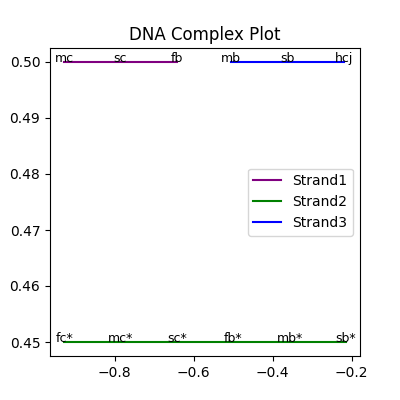
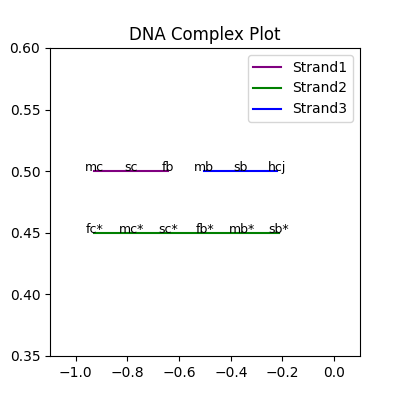
Add major changes to design and graphics

diff --git a/project/templates/index.html b/project/templates/index.html
@@ -13,46 +13,57 @@
 <body>
   
     <div class="navbar">
-        <a href="/" class="logo mb-4"> <span style="color: #00a2ed"> P-</span>Sequin</a>
+        <a href="/" class="logo mb-4"> <span style="color: #6700dd;"> P-</span>Sequin</a>
         <a href="#settings" class="runtime-settings">Runtime Settings</a>
     </div>
 
 
     <div class="container mt-5">
         {% if not domain_sequences and not strand_sequences %}
-        <div class="card" id="inputForm">
+        <div id="inputForm">
+            
             <div class="card-body">
                 <form action="/generate" method="post">
-                    <h5 class="mb-3">Domain Details:</h5>
-                    <div class="form-group">
-                        <label>Number of Domains:</label>
-                        <input type="number" name="domains_num" class="form-control" required>
-                    </div>
-                    <div class="form-group">
-                        <label>Enter Domain Names (comma-separated):</label>
-                        <input type="text" name="domain_names" class="form-control" required>
-                    </div>
-                    <div class="form-group">
-                        <label>Enter Domain Lengths (comma-separated):</label>
-                        <input type="text" name="domain_lengths" class="form-control" required>
-                    </div>
-
-                    <!-- DNA Strands Section -->
-                    <div class="strand-section mt-4">
-                        <h5>Enter DNA Strands:</h5>
-                        <div class="strand-inputs">
-                            <!-- Dynamic strand inputs will be appended here -->
+                    <h5 class="mb-3 section-title">Domain Details</h5>
+                    <div class="card">
+                        <div class="form-group">
+                            <label>Number of Domains:</label>
+                            <input type="number" name="domains_num" class="form-control" required>
                         </div>
-                        <button type="button" class="btn btn-secondary mt-2" id="addStrand">Add Strand</button>
-                    </div>
-
-                    <!-- Complex Details Section -->
-                    <div class="complex-section mt-4">
-                        <h5>Enter Target Complexes:</h5>
-                        <div class="complex-inputs">
-                            <!-- Dynamic complex inputs will be appended here -->
+                        <div class="form-group">
+                            <label>Enter Domain Names (comma-separated):</label>
+                            <input type="text" name="domain_names" class="form-control" required>
                         </div>
-                        <button type="button" class="btn btn-secondary mt-2" id="addComplex">Add Complex</button>
+                        <div class="form-group">
+                            <label>Enter Domain Lengths (comma-separated):</label>
+                            <input type="text" name="domain_lengths" class="form-control" required>
+                        </div>
+                    </div>
+                    <br>
+                    <br>
+                    <h5 class="mb-3 section-title">Strand Details</h5>
+                    <div class="card">
+                        <!-- DNA Strands Section -->
+                        <div class="strand-section mt-4">
+                            <h5>Enter DNA Strands:</h5>
+                            <div class="strand-inputs">
+                                <!-- Dynamic strand inputs will be appended here -->
+                            </div>
+                            <button type="button" class="btn btn-secondary mt-2" id="addStrand">Add Strand</button>
+                        </div>
+                    </div>
+                    <br>
+                    <br>
+                    <h5 class="mb-3 section-title">Complex Details</h5>
+                    <div class="card">
+                        <!-- Complex Details Section -->
+                        <div class="complex-section mt-4">
+                            <h5>Enter Target Complexes:</h5>
+                            <div class="complex-inputs">
+                                <!-- Dynamic complex inputs will be appended here -->
+                            </div>
+                            <button type="button" class="btn btn-secondary mt-2" id="addComplex">Add Complex</button>
+                        </div>
                     </div>
 
                     <div class="form-check mt-4 mb-3">
@@ -60,7 +71,7 @@
                         <label class="form-check-label">Include 3' Poly-T Overhang</label>
                     </div>
 
-                    <input type="submit" value="Generate" class="btn btn-primary">
+                    <input type="submit" value="Generate" class="btn btn-primary" style="background-color:black !important;">
                 </form>
             </div>
         </div>

diff --git a/project/static/styles.css b/project/static/styles.css
@@ -1,11 +1,15 @@
+@import url('https://fonts.googleapis.com/css2?family=IBM+Plex+Sans&family=Playfair+Display&family=Playfair+Display+SC:wght@400;700&family=Roboto+Mono:wght@500&display=swap');
+html{
+    background-color: rgb(245, 245, 248) !important;
+}
 body {
-    font-family:system-ui, -apple-system, BlinkMacSystemFont, 'Segoe UI', Roboto, Oxygen, Ubuntu, Cantarell, 'Open Sans', 'Helvetica Neue', sans-serif;
+    font-family: 'Playfair Display SC', 'sans';
 
     align-items: center;
     justify-content: center;
     height: 100vh;
     margin: 0;
-    background-color: #ffffff;
+
     color: black;
 
 }
@@ -38,30 +42,28 @@ label, input {
 
 /* Dark Mode Styles for the Card */
 .card {
-    background-image: linear-gradient(to right, rgb(58, 6, 65) , rgb(0, 0, 0));
+    background-image: linear-gradient(to right, rgb(255, 255, 255) , rgb(255, 255, 255));
     border: 1px solid #444;     /* Darker border for the card */
     border-radius: 25px; 
+    color: black !important;
+    padding: 30px;
+    margin-top: 20px;
 }
 
-.card-body {
-    color: #e0e0e0;             /* Light grey text color for card content */
-}
 
 /* Dark Mode Styles for Form */
 form {
 
-    border: none !important;               /* Remove border as the card already has one */
-    color: #e0e0e0 !important;             /* Light grey text color */
-    background-image: linear-gradient(to right, rgb(58, 6, 65) , rgb(0, 0, 0));
+    border: none !important;
 
 
 }
 
 /* Styles for input fields, textareas, and select boxes in dark mode */
 form input, form textarea, form select {
-    background-color: #3a3a3a !important;  /* Slightly lighter grey for input fields */
+    background-color: #cccccc !important;
     border: 1px solid #555 !important;     /* Darker border for input fields */
-    color: #e0e0e0 !important;             /* Light grey text color for input text */
+
 }
 
 /* Placeholder color for input fields in dark mode */
@@ -71,12 +73,12 @@ form input::placeholder, form textarea::placeholder {
 
 /* Dark mode styles for labels */
 form label {
-    color: #ddd !important;                /* Light grey text color for labels */
+    color: #000000 !important;                /* Light grey text color for labels */
 }
 
 /* Dark mode hover effect for input fields */
 form input:hover, form textarea:hover, form select:hover {
-    background-color: #4a4a4a !important;  /* Even lighter grey for hover effect */
+    background-color: #e6e6e6 !important;  /* Even lighter grey for hover effect */
     border: 1px solid #666 !important;     /* Slightly darker border for hover effect */
 }
 
@@ -128,7 +130,7 @@ form input:focus, form textarea:focus, form select:focus {
 
 .runtime-settings {
     color: #ffffff;
-    background-color: #555;
+    background-color: #000000;
     padding: 8px 16px;
     border: none;
     border-radius: 5px;
@@ -148,3 +150,11 @@ form input:focus, form textarea:focus, form select:focus {
 .domain {
     font-size: 12px;
   }
+
+.section-title{
+    text-align: center;
+    color: #0e440d;
+    font-weight: 600;
+    font-size: 24px;
+
+}

diff --git a/project/graphics.py b/project/graphics.py
@@ -3,7 +3,6 @@ matplotlib.use('Agg')
 import matplotlib.pyplot as plt
 import os
 
-import mpld3
 
 class DNAComplexPlotter:
     def __init__(self, complex_structure, strands_data):
@@ -98,6 +97,8 @@ class DNAComplexPlotter:
                 all_domain_coordinates.extend(self.calculate_aligned_domain_coordinates(strand, index, quadrant_middle_coordinates[index], left_bound=left_bound_strand2, right_bound=right_bound_strand2))
 
         fig, ax = plt.subplots(figsize=(4, 4))
+        ax.set_ylim(0.35, 0.6)
+        ax.set_xlim(-1.1, 0.1)
         strand_colors = ['red', 'green', 'blue']
         for index, strand in enumerate(self.matched_strands):
             if strand.get('contains_polymerase'):
